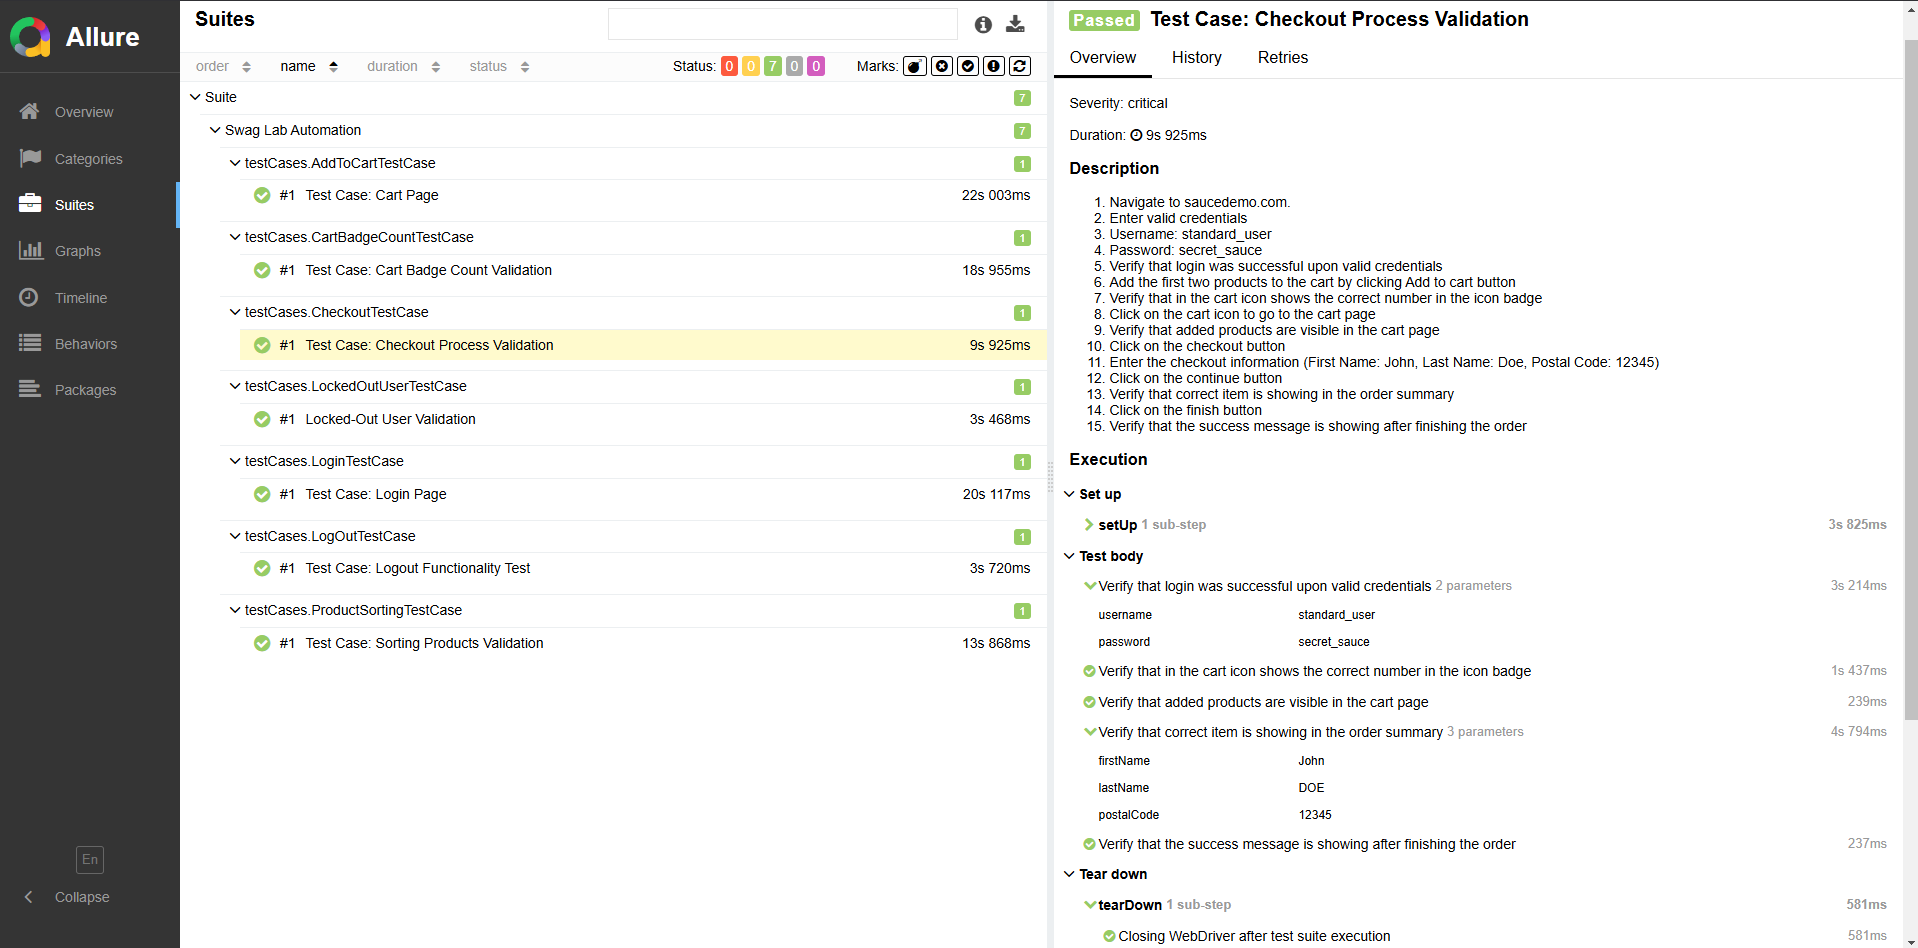
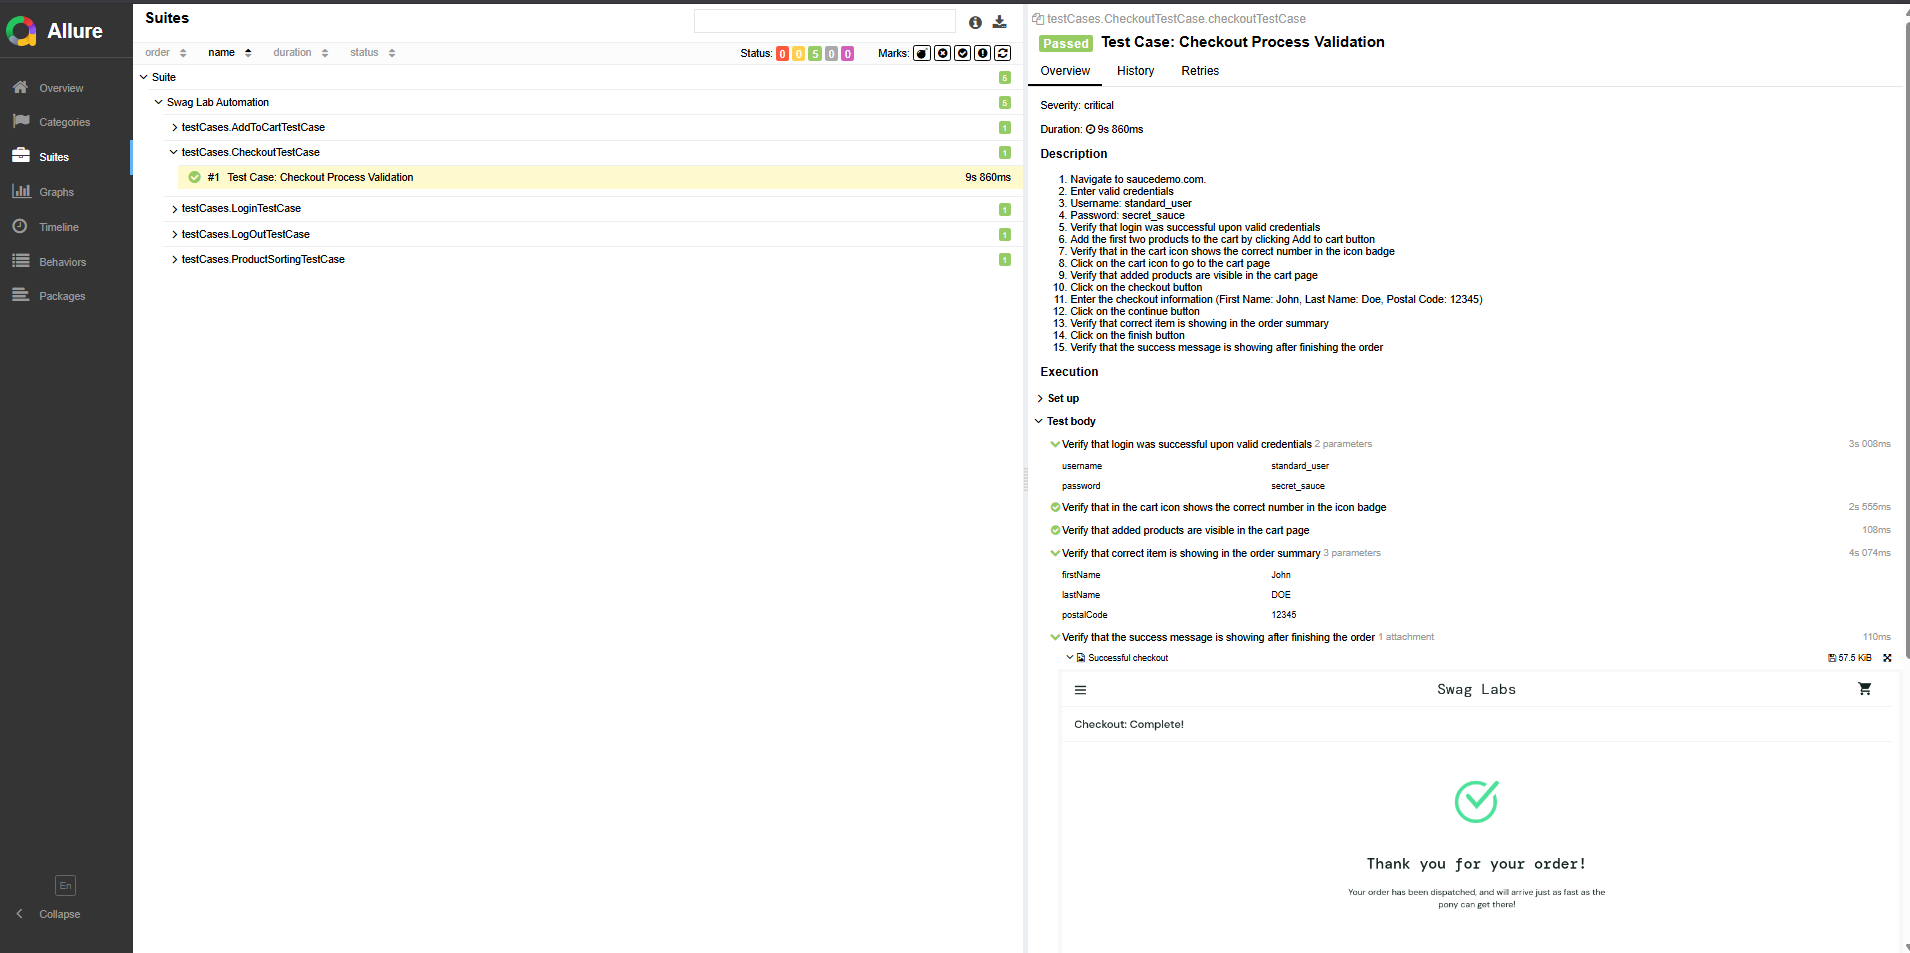
Automation - Swag labs

diff --git a/src/test/java/utilities/DriverManager.java b/src/test/java/utilities/DriverManager.java
@@ -32,7 +32,7 @@ public class DriverManager {
                     break;
                 case "firefox":
                     FirefoxOptions firefoxOptions = new FirefoxOptions();
-                    firefoxOptions.addArguments("-headless");  // Headless mode
+                    //firefoxOptions.addArguments("-headless");  // Headless mode
                     // Additional Firefox options for CI can be added here if needed
                     driver = new FirefoxDriver(firefoxOptions);
                     break;

diff --git a/README.md b/README.md
@@ -1,26 +1,40 @@
 # **Swag Labs Automation**
 
 ## **Overview**
-Swag Labs Automation is a Selenium and TestNG-based automation testing framework built to validate the functionalities of Swag Labs web application. Designed with modularity and scalability in mind, this framework supports running tests across multiple workflows such as login, cart management, and visual validations, while also leveraging **Allure** for professional-grade reporting.
+Swag Labs Automation is a Selenium and TestNG-based automation testing framework built to validate the functionalities of Swag Labs web application. Designed with modularity and scalability in mind, this framework supports running tests across multiple workflows such as login, cart management, and visual validations, while also leveraging **Allure** for professional-grade reporting. Additionally, this project is integrated with GitHub Actions for continuous integration. On every push to the main branch, the pipeline automatically executes the test suite and generates interactive Allure Reports, ensuring that test feedback and reporting remain consistent and up-to-date.
 
 ---
 
 ## **Features**
 - Fully automated testing for the Swag Labs web application's critical functionalities.
-- Supports detailed TestNG test cases and scenarios.
-- Modular design using reusable base classes and utility functions.
-- Efficient test data management for scenario-based testing.
+- Supports detailed **TestNG** test cases and scenarios.
+- Modular design using reusable base classes, page objects, and utility functions.
+- Efficient test data management for scenario-based and data-driven testing.
 - Detailed test progress and results reporting using **Allure**.
-- Screenshots for both errors and visual validation using **Ashot**.
+- Screenshots for visual validation and error debugging using **Screenshot**.
+- Cross-browser support (Chrome, Firefox, Edge) managed by **WebDriverManager**.
+- Continuous Integration with **GitHub Actions** to automatically run tests and generate Allure reports on each push to `main`.
+- Scalable and maintainable framework architecture following industry best practices.
+
 
 ---
 
 ## **Prerequisites**
-1. **Java Development Kit (JDK)** version 20 or later.
-2. **Maven** for dependency management.
-3. **Modern Web Browsers** (Chrome, Firefox, Edge are supported).
-4. **Allure Command-Line Tool** for generating test reports:
-    - Install Allure via Homebrew (macOS) or Chocolatey (Windows).
+1. **Java Development Kit (JDK)** — version 20 or later.
+   - Required to compile and run the Selenium TestNG framework.
+
+2. **Apache Maven** — for project build and dependency management.
+   - All dependencies (Selenium, TestNG, WebDriverManager, Allure, etc.) are managed through `pom.xml`.
+
+3. **Supported Web Browsers** — latest versions of Chrome, Firefox, or Edge.
+   - Browser drivers are automatically handled using **WebDriverManager** (no manual setup required).
+
+4. **Allure Command-Line Tool** — for generating and serving rich test reports.
+   - Install via **Homebrew** (macOS) or **Chocolatey** (Windows).
+
+5. **Git & GitHub** — for version control and CI/CD.
+   - Project integrates with **GitHub Actions** to run tests and publish Allure reports on pushes to `main`.
+
 
 ---
 
@@ -29,7 +43,6 @@ Swag Labs Automation is a Selenium and TestNG-based automation testing framework
 1. Clone the repository:
    ```bash
    git clone <repository-url>
-   cd Swag-Labs-Automation
    ```
 
 2. Install necessary dependencies:
@@ -43,7 +56,28 @@ Swag Labs Automation is a Selenium and TestNG-based automation testing framework
         - `browser` - (e.g., Chrome, Firefox).
     - The file is located at: `src/test/resources/config.properties`.
 
-4. Verify your browser drivers using **WebDriverManager**.
+4. Framework structure
+
+   - **src/test/java/pages/** → Contains Page Object Model (POM) classes representing different pages of the application. Includes `BasePage` for common page actions and `CommonElements` for shared UI elements.
+
+   - **src/test/java/testCases/** → Contains all TestNG test classes that define different workflows and test scenarios (login, cart, checkout, sorting, logout).
+
+   - **src/test/java/utilities/** → Contains helper and utility classes:
+      - `DriverManager.java` → Manages WebDriver setup and teardown.
+      - `configProperties.java` → Reads configuration values from `config.properties`.
+      - `Data.java` → Stores test data for tests.
+
+   - **src/test/resources/** → Stores configuration files (`config.properties`, `testng.xml`) and other test resources.
+
+   - **allure-results/** → Stores the test results for Allure reporting.
+
+   - **assets/** → Stores assets like screenshots or other supporting files.
+
+   - **.github/** → Contains GitHub Actions workflow files for CI/CD integration.
+
+   - **pom.xml** → Maven configuration for dependencies, build, and plugin management.
+
+   - **README.md** → Project documentation.
 
 ---
 
@@ -52,7 +86,7 @@ Swag Labs Automation is a Selenium and TestNG-based automation testing framework
 ### Run All Tests
 Run all test cases from the framework:
 ```bash
-mvn test
+mvn clean test
 ```
 
 ### Run Specific Test Cases
@@ -81,14 +115,11 @@ Validates the login functionality under various scenarios.
 
 ---
 
-### **2. CartBadgeCountTestCase.java**
+### **2. ProductSortingTestCase.java**
 #### **Description:**
-Verifies the cart badge count functionality.
+Tests product details page sorting functionality.
 #### **Test Scenarios:**
-- Adding an item should increase the cart badge count by 1.
-- Removing an item should decrease the cart badge count by 1.
-- Cart badge should display `0` when all items are removed.
-
+- Verify the correct product sorting.
 ---
 
 ### **3. AddToCartTestCase.java**
@@ -101,12 +132,12 @@ Validates the product addition and cart behavior.
 
 ---
 
-### **4. LockedOutUserTestCase.java**
+### **4. RemoveFromCartTestCase.java**
 #### **Description:**
-Tests the application's behavior when a locked-out user attempts to log in.
+Tests removing items from the cart functionality.
 #### **Test Scenarios:**
-- Ensure login is denied for locked-out users.
-- Confirm the correct error message is displayed for a locked-out user.
+- Verify removing a single product works correctly.
+
 
 ---
 
@@ -117,30 +148,10 @@ Validates the steps involved during the checkout process.
 - Add items to cart and start checkout.
 - Enter valid customer details to proceed.
 - Verify successful checkout completion.
-- Test incomplete detail submissions.
 
 ---
 
-### **6. RemoveFromCartTestCase.java**
-#### **Description:**
-Tests removing items from the cart functionality.
-#### **Test Scenarios:**
-- Verify removing a single product works correctly.
-- Verify removing all products removes the cart badge.
-- Verify back navigation and cart status.
-
----
-
-### **7. ProductDetailsTestCase.java**
-#### **Description:**
-Tests product details page functionality.
-#### **Test Scenarios:**
-- Verify the correct product title, description, and price.
-- Navigate back to the product list successfully.
-
----
-
-### **8. LogoutTestCase.java**
+### **6. LogoutTestCase.java**
 #### **Description:**
 Tests the logout functionality of the application.
 #### **Test Scenarios:**
@@ -149,13 +160,41 @@ Tests the logout functionality of the application.
 
 ---
 
+## 🔄 Continuous Integration
+
+### GitHub Actions Workflow
+This project uses GitHub Actions for continuous integration. The workflow automatically:
+- Runs tests on push and pull requests
+- Generates and deploys Allure reports
+- Runs tests in headless mode
+- Caches dependencies for faster builds
+
+
+### GitHub Actions Features
+- Automated test execution on push/pull requests
+- Allure report generation and deployment to GitHub Pages
+- Maven dependency caching
+- Parallel test execution support
+- Headless browser testing in CI environment
+
+### Viewing Test Reports
+1. Go to the Actions tab in the repository
+2. Click on the latest workflow run
+3. Navigate to the deployed Allure report
+4. Reports are also available as artifacts for each run
+
+### Local vs CI Execution
+- Local: Tests run in regular browser mode
+- CI: Tests run in headless mode for better performance
+___
+
 ## **Test Reporting**
 
 This framework integrates **Allure** for modern and interactive reporting:
 
 1. **Run Tests**:
    ```bash
-   mvn test
+   mvn clean test
    ```
 
 2. **Generate Allure Report**:
@@ -189,26 +228,6 @@ To present test results, you can include images in the `assets/` folder. Update 
 
 ---
 
-## **Components Explanation**
-
-### **1. Configurations**
-The `configurations` package contains:
-- **BaseClass.java**: A parent class for initializing WebDriver and essential setup and custom methods.
-- **DriverManager.java**: Handles driver initialization using WebDriverManager.
-- **BasePage.java**: Provides reusable web element interaction methods.
-
----
-
-### **2. Utilities**
-The `utilities` package contains data-driven or reusable methods such as:
-- **LoginData.java**: Manages login-related test data for better organization.
-
----
-
-### **3. Test Cases**
-The `testCases` package contains all the functional/feature test cases covering Swag Labs workflows.
-
----
 
 ## **Supported Browsers**
 The framework supports the following browsers:
